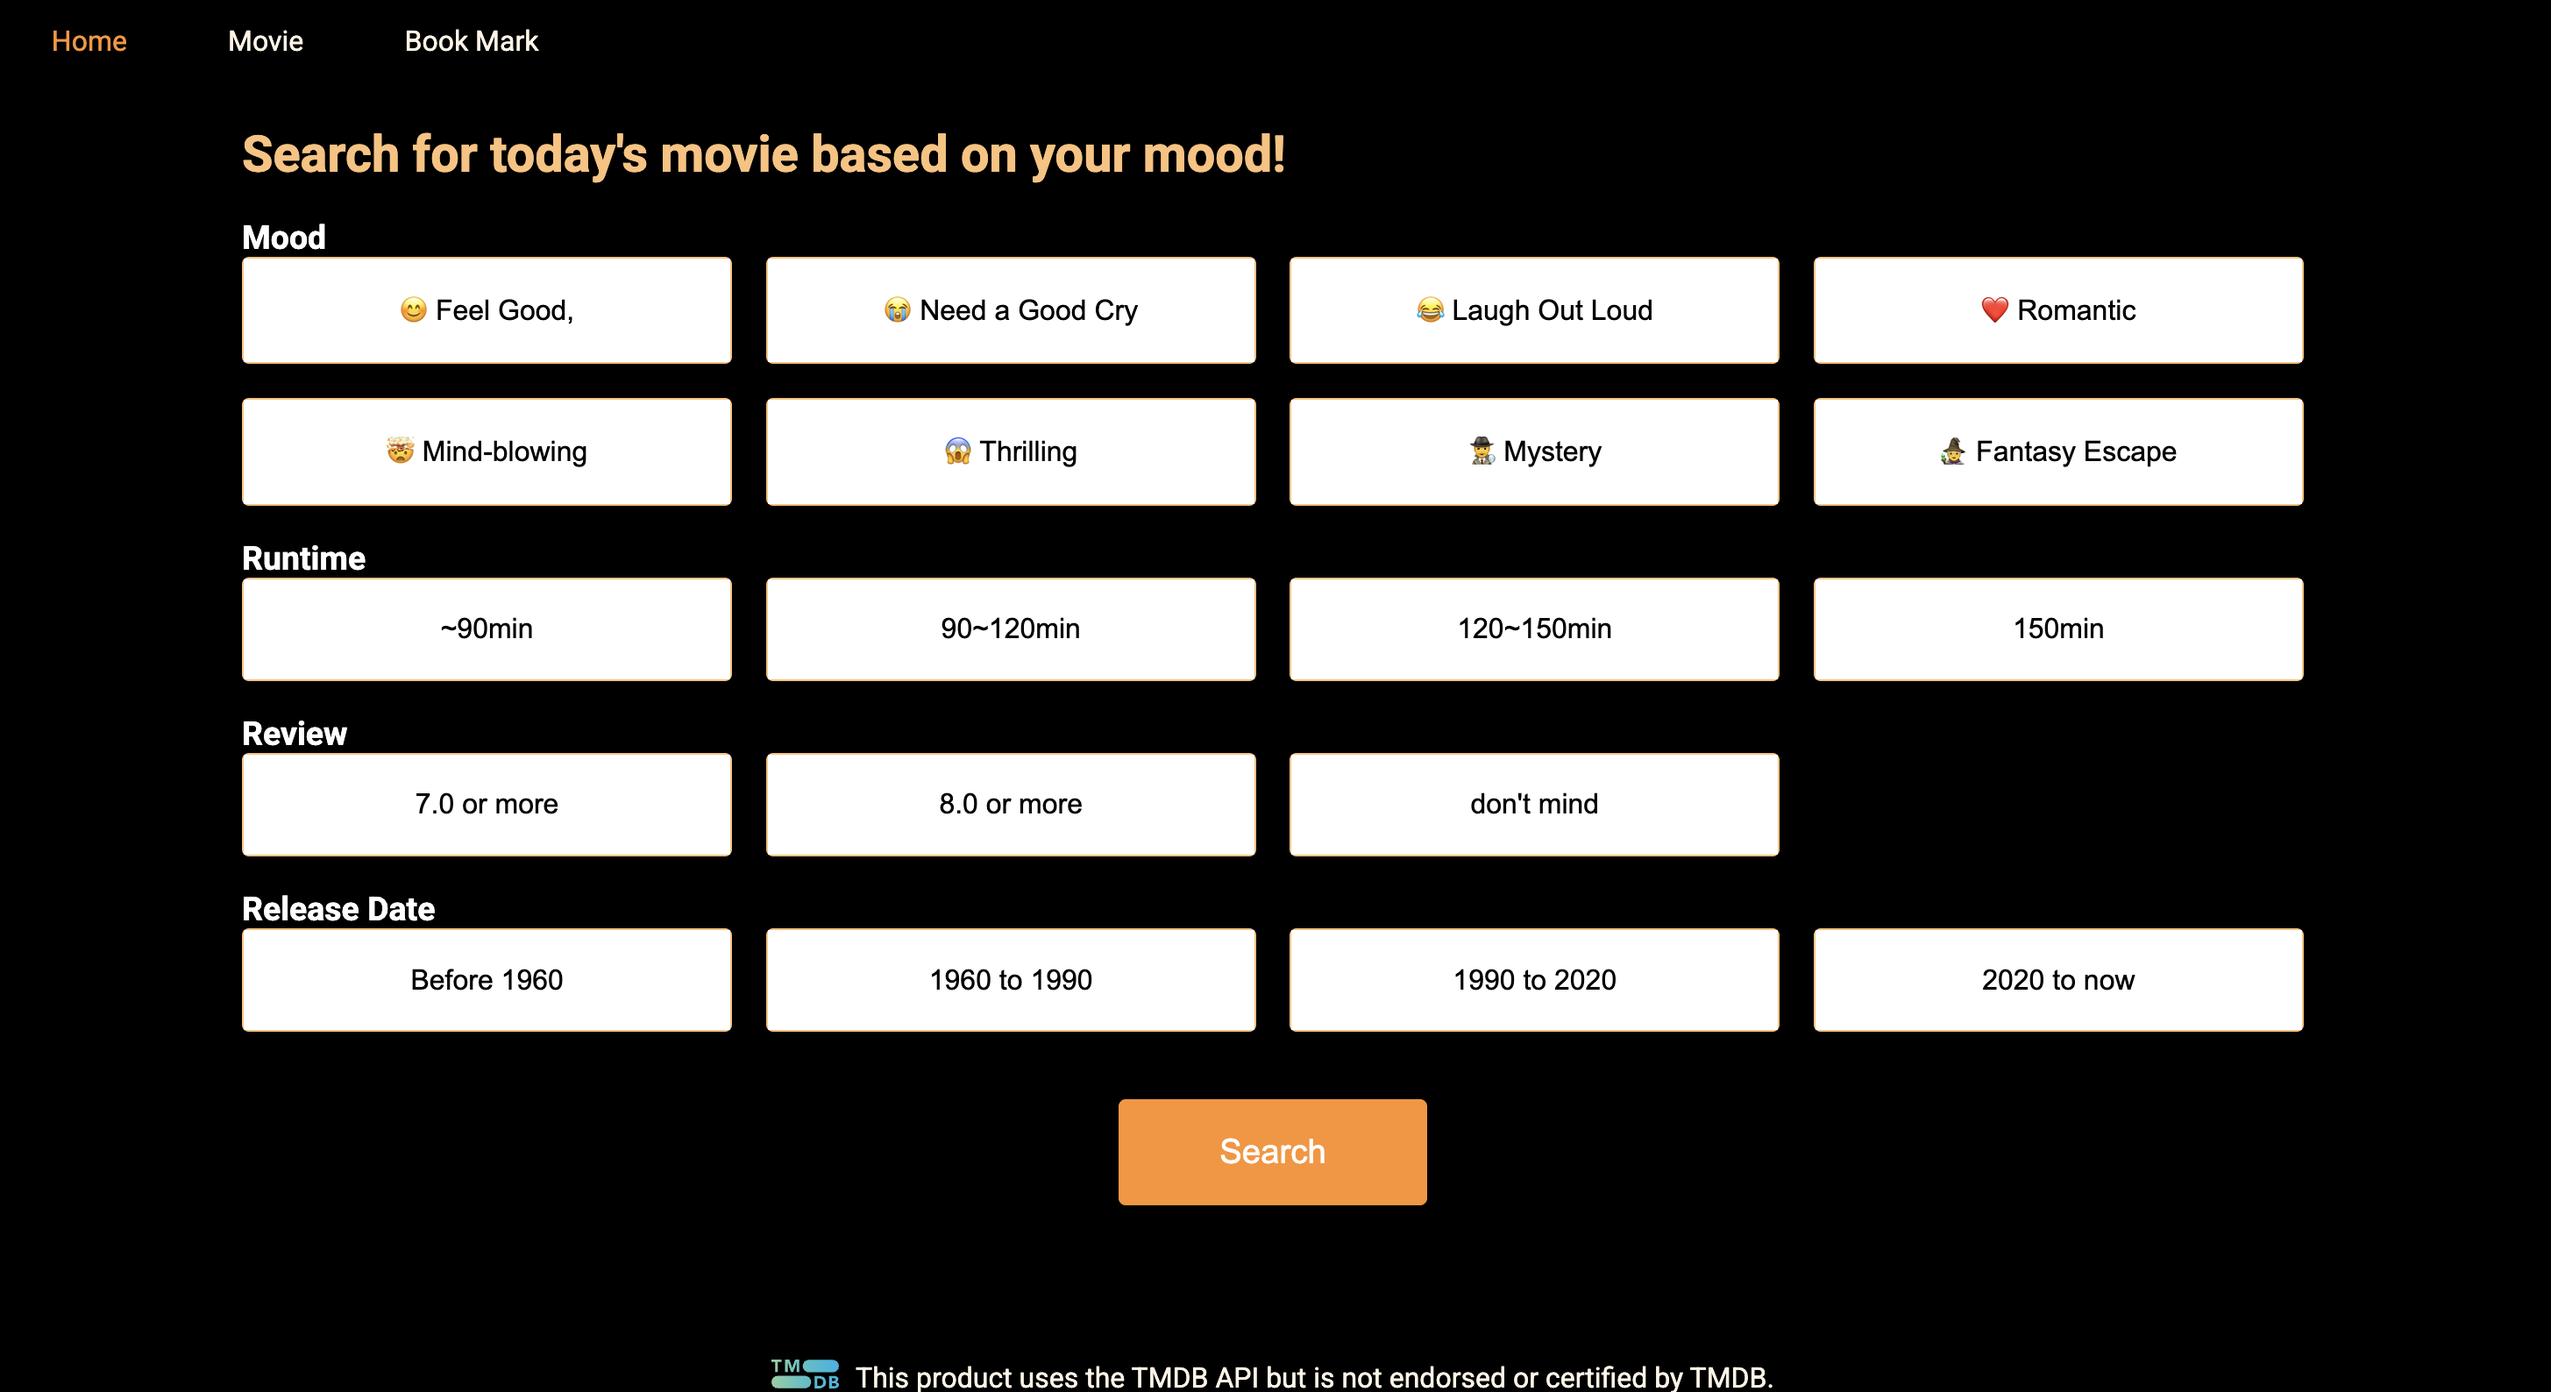
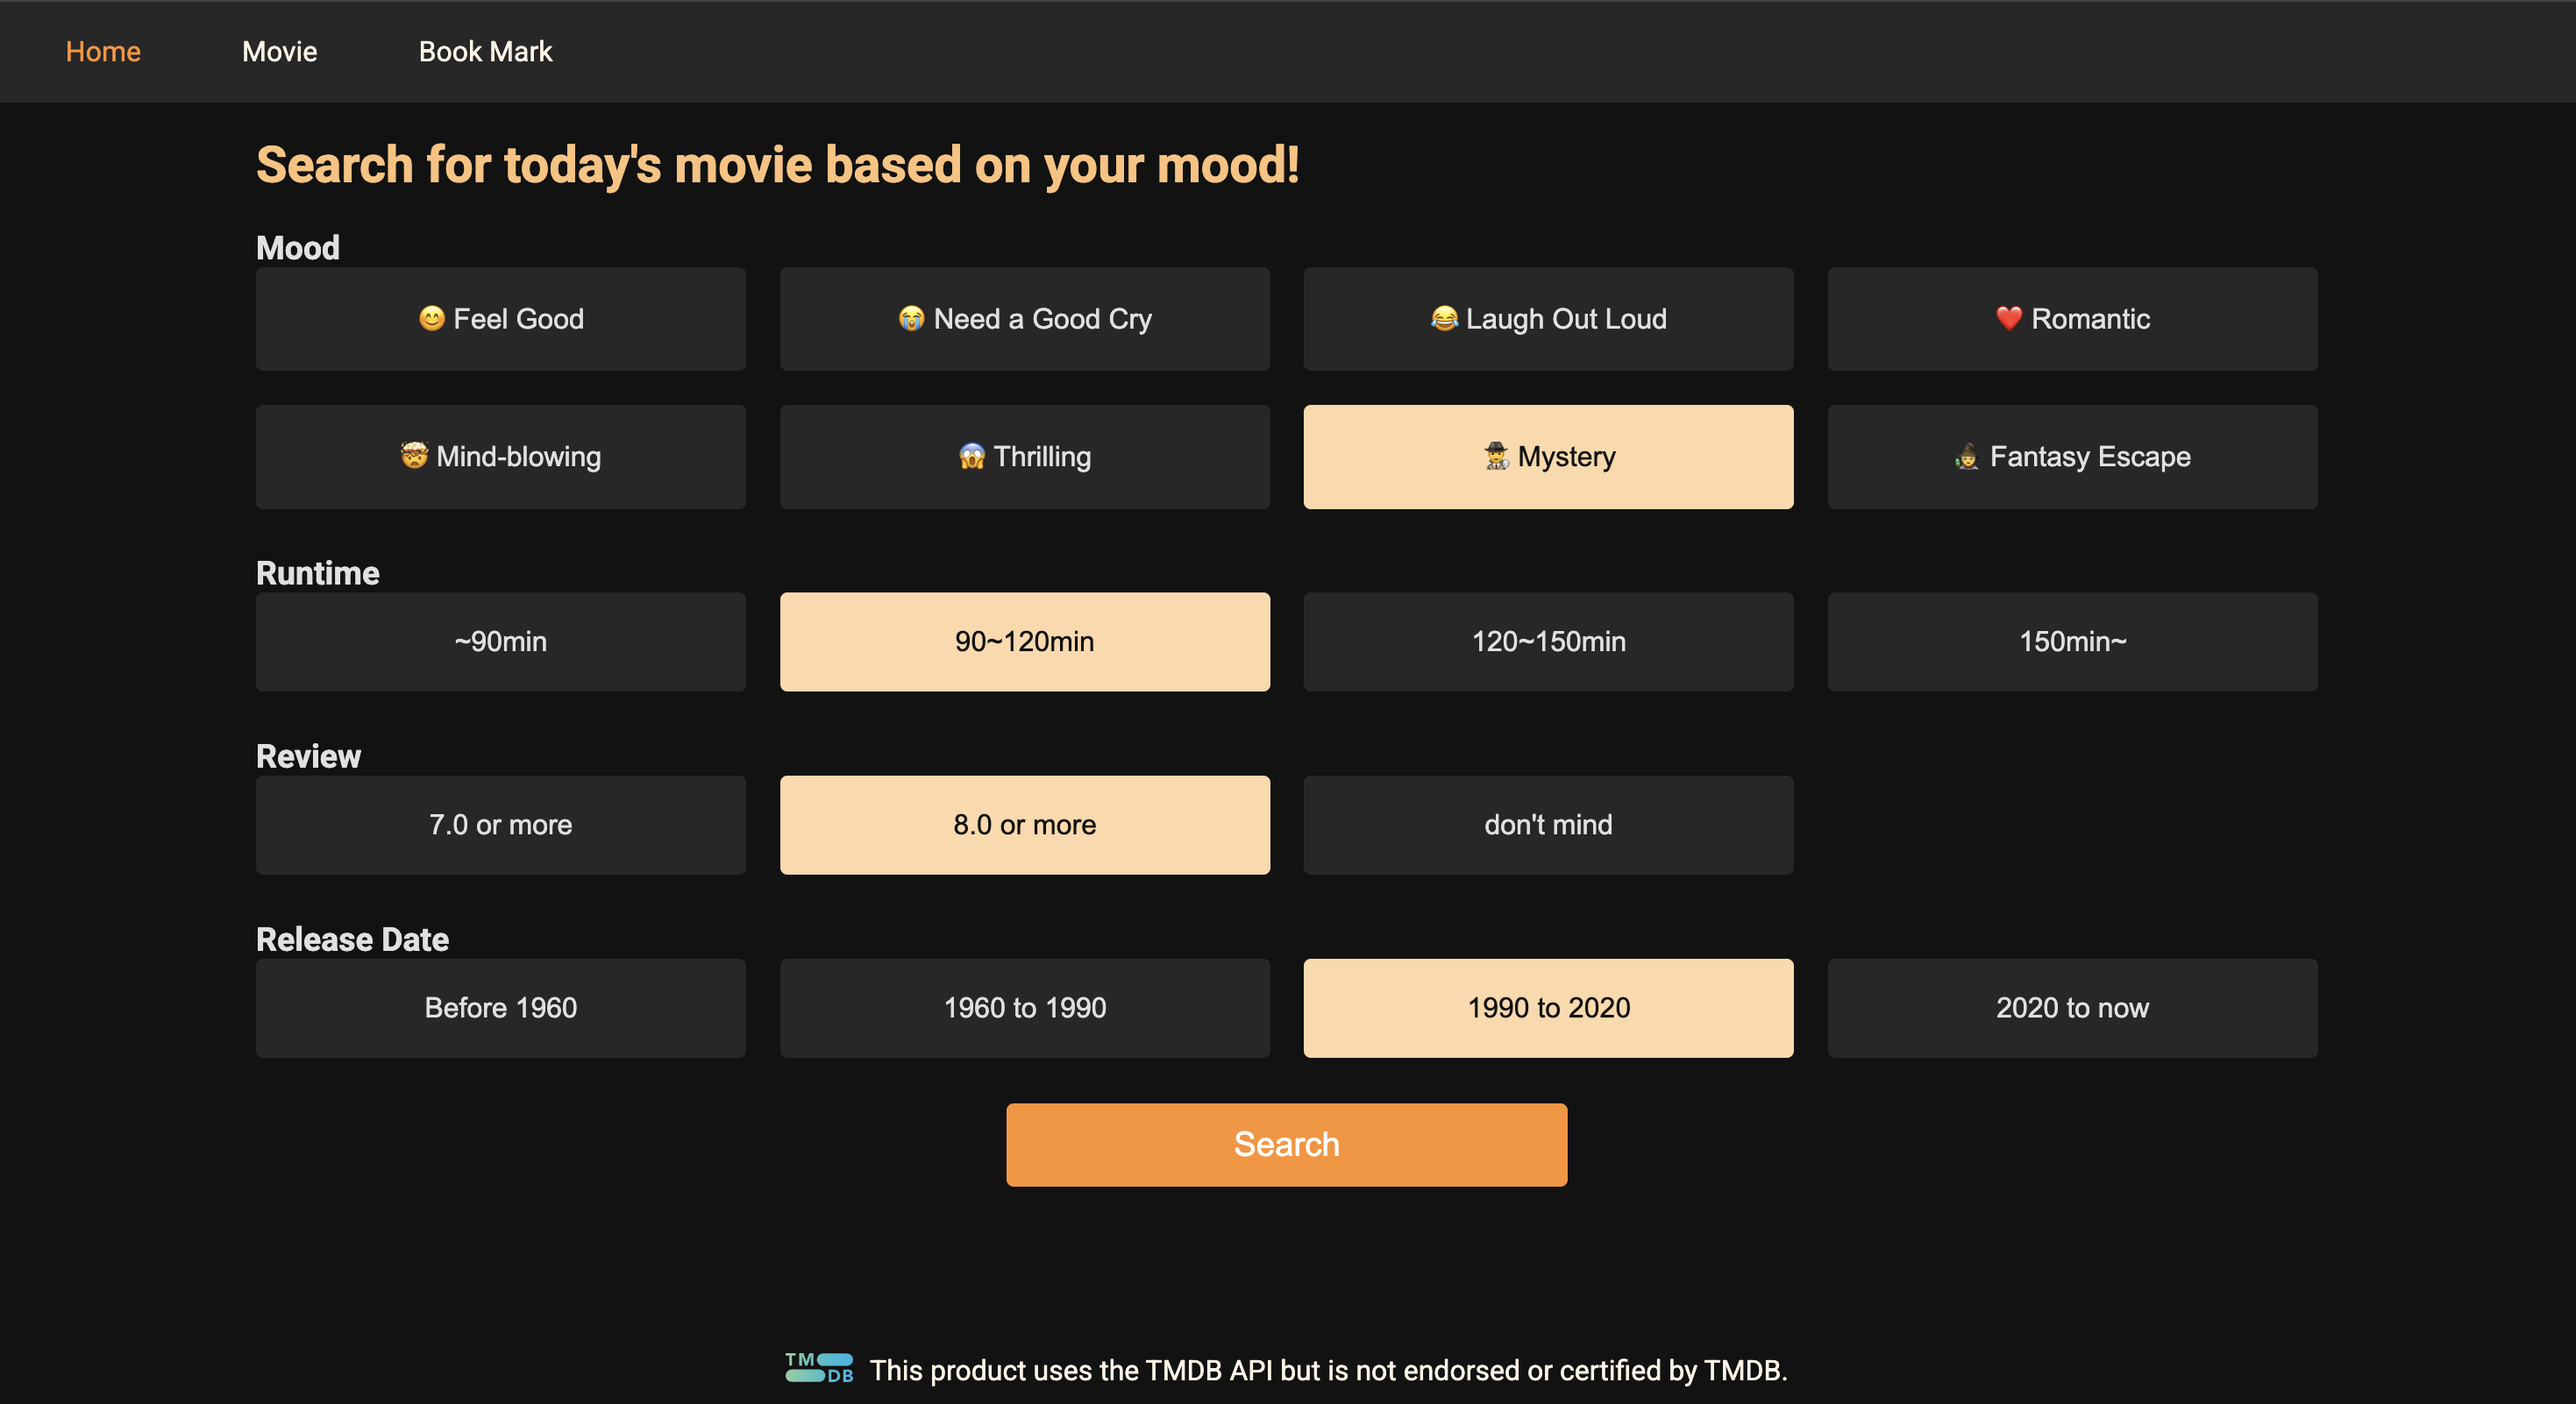
add image fallback for missing posters and improve sryling

diff --git a/src/components/MovieDetail.jsx b/src/components/MovieDetail.jsx
@@ -33,10 +33,6 @@ export default function MovieDetail({ bookmark }) {
 
   return (
     <div>
-      <Link to="/">
-        <button className="act-button go-back-button">Go Home</button>
-      </Link>
-
       <h3 className="movie-item-title">{data.title}</h3>
       <div className="movie-item-detailed-info">
         <p>Release on {date}</p>
@@ -44,14 +40,25 @@ export default function MovieDetail({ bookmark }) {
       </div>
       <div className="movie-item-container">
         <div className="movie-item-left-container">
-          <img src={`https://image.tmdb.org/t/p/w500/${data.poster_path}`} />
+          {data.poster_path ? (
+            <img
+              src={`https://image.tmdb.org/t/p/w500/${data.poster_path}`}
+              alt={`${data.title} poster`}
+            />
+          ) : (
+            <div className="no-image-container card">
+              <span className="material-symbols-outlined movie-item-no-image">
+                theaters
+              </span>
+            </div>
+          )}
         </div>
         <div className="movie-item-right-container">
-          <div>
+          <div className="card">
             <h4>Overview</h4>
-            <p>{data.overview}</p>
+            <p className="movie-item-overview">{data.overview}</p>
           </div>
-          <div>
+          <div className="card">
             <h4>Main Cast</h4>
             <ul>
               {mainCast.map((item) => (
@@ -64,7 +71,7 @@ export default function MovieDetail({ bookmark }) {
               ))}
             </ul>
           </div>
-          <div>
+          <div className="card">
             <h4>Director</h4>
             <ul>
               {director.map((item) => (
@@ -72,7 +79,7 @@ export default function MovieDetail({ bookmark }) {
               ))}
             </ul>
           </div>
-          <div>
+          <div className="card">
             <h4>Screen Play</h4>
             <ul>
               {screenplay.map((item) => (
@@ -80,7 +87,7 @@ export default function MovieDetail({ bookmark }) {
               ))}
             </ul>
           </div>
-          <div>
+          <div className="card">
             <h4>Streaming ({streaming.length})</h4>
             <ul>
               {streaming.map((item) => (
@@ -88,19 +95,18 @@ export default function MovieDetail({ bookmark }) {
               ))}
             </ul>
           </div>
-          <div>
-            {rental.length > 0 && (
-              <>
-                <h4>Rental ({rental.length})</h4>
-                <ul>
-                  {rental.map((item) => (
-                    <li>{item["provider_name"]}</li>
-                  ))}
-                </ul>
-              </>
-            )}
-          </div>
-          <div>
+
+          {rental.length > 0 && (
+            <div className="card">
+              <h4>Rental ({rental.length})</h4>
+              <ul>
+                {rental.map((item) => (
+                  <li>{item["provider_name"]}</li>
+                ))}
+              </ul>
+            </div>
+          )}
+          <div className="card">
             <h4>Average Vote</h4>
             <p>Over {Math.floor(data.vote_average)}</p>
           </div>

diff --git a/src/index.css b/src/index.css
@@ -5,8 +5,8 @@
 }
 
 body {
-  background-color: black;
-  color: white;
+  background-color: #121212;
+  color: #e0e0e0;
   font-family: "Roboto", sans-serif;
   margin: 0;
 }
@@ -31,7 +31,7 @@ ul {
 
 a {
   text-decoration: none;
-  color: white;
+  color: #e0e0e0;
 }
 
 .center-container {
@@ -39,7 +39,14 @@ a {
   margin: 0 auto;
 }
 
+.card {
+  background-color: #272727;
+  padding: 0.8rem;
+  border-radius: 0.6rem;
+}
+
 .nav-list {
+  background-color: #272727;
   display: flex;
   gap: 3.6rem;
   padding: 1.2rem 2.4rem;
@@ -66,31 +73,34 @@ a {
   display: grid;
   grid-template-columns: repeat(4, 1fr);
   gap: 1.2rem;
-  margin-bottom: 1.2rem;
+  margin-bottom: 1.6rem;
 }
 
 .search-list-item {
-  border: 1px solid #ffc078;
   border-radius: 4px;
-  min-height: 4.5rem;
+  min-height: 3rem;
 }
 
 .search-list-item-button {
   padding: 1.2rem;
   width: 100%;
   height: 100%;
-  background-color: white;
-  border: none;
+  background-color: #272727;
+  color: #e0e0e0;
   cursor: pointer;
+  border: none;
+  border-radius: 4px;
   font-size: 1rem;
 }
 
 .search-list-item-button:hover {
   background-color: #ffd8a8;
+  color: #111;
 }
 
 .active-search-list-button {
   background-color: #ffd8a8;
+  color: #111;
 }
 
 .list-box {
@@ -109,7 +119,7 @@ a {
 
 .button-container {
   display: flex;
-  margin-top: 2.4rem;
+  margin-top: 1.2rem;
   margin-bottom: 2.4rem;
 }
 
@@ -122,14 +132,20 @@ a {
 .search-button {
   background-color: #ff922b;
   color: white;
+  width: 20rem;
   font-size: 1.2rem;
-  padding: 1.2rem 3.6rem;
+  font-weight: 500;
+  padding: 0.8rem 2.4rem;
   margin: 0 auto;
 }
 
 .act-button:hover {
   background-color: #ffd8a8;
   color: #ff922b;
+}
+
+.act-button:active {
+  transform: translateY(1px);
 }
 
 .clip-button {
@@ -144,7 +160,7 @@ a {
   background: none;
   font-size: 1.2rem;
   border: none;
-  color: white;
+  color: #e0e0e0;
   margin-top: 1.2rem;
 }
 
@@ -186,6 +202,10 @@ a {
   margin: 1.2rem 0 0.6rem 0;
 }
 
+.movie-item-overview {
+  line-height: 1.4;
+}
+
 .movie-item-genre {
   display: flex;
   gap: 1.2rem;
@@ -193,6 +213,27 @@ a {
 
 .movie-item-play-as {
   color: #ffe8cc;
+}
+
+.material-symbols-outlined {
+  font-variation-settings:
+    "FILL" 0,
+    "wght" 400,
+    "GRAD" 0,
+    "opsz" 24;
+}
+
+.no-image-container {
+  width: 100%;
+  aspect-ratio: 2 / 3;
+  display: grid;
+  justify-items: center;
+  align-items: center;
+  font-size: 6rem;
+}
+
+.movie-item-no-image {
+  font-size: 6rem;
 }
 
 .movie-list-title {
@@ -204,6 +245,7 @@ a {
 
 .movie-list-item {
   display: flex;
+  color: #e0e0e0;
   flex-direction: column;
   justify-content: center;
   align-items: center;

diff --git a/src/components/MovieListItem.jsx b/src/components/MovieListItem.jsx
@@ -5,10 +5,16 @@ export default function MovieItem({ movie }) {
   return (
     <Link to={`/movie/${movie.id}`}>
       <li className="movie-list-item">
-        <img
-          src={`https://image.tmdb.org/t/p/w300_and_h450_bestv2/${movie.poster_path}`}
-          alt={movie.title}
-        />
+        {movie.poster_path ? (
+          <img
+            src={`https://image.tmdb.org/t/p/w300_and_h450_bestv2/${movie.poster_path}`}
+            alt={movie.title}
+          />
+        ) : (
+          <div className="no-image-container card">
+            <span className="material-symbols-outlined">theaters</span>
+          </div>
+        )}
         <p>{movie.title}</p>
         <p>{date}</p>
       </li>

diff --git a/index.html b/index.html
@@ -10,6 +10,10 @@
       href="https://fonts.googleapis.com/css2?family=Roboto:ital,wght@0,100..900;1,100..900&display=swap"
       rel="stylesheet"
     />
+    <link
+      rel="stylesheet"
+      href="https://fonts.googleapis.com/css2?family=Material+Symbols+Outlined:opsz,wght,FILL,GRAD@20..48,100..700,0..1,-50..200&icon_names=theaters"
+    />
 
     <meta name="viewport" content="width=device-width, initial-scale=1.0" />
     <title>movie-search</title>

diff --git a/README.md b/README.md
@@ -5,7 +5,7 @@ A movie search application that helps users discover and browse movies.
 ## Screenshot
 
 ![Home Page](/screenshots/home.png)
-![Detail Page](/screenshots/movie%20detail.png)
+![Detail Page](/screenshots/movie-detail.png)
 
 ## Live Demo
 
